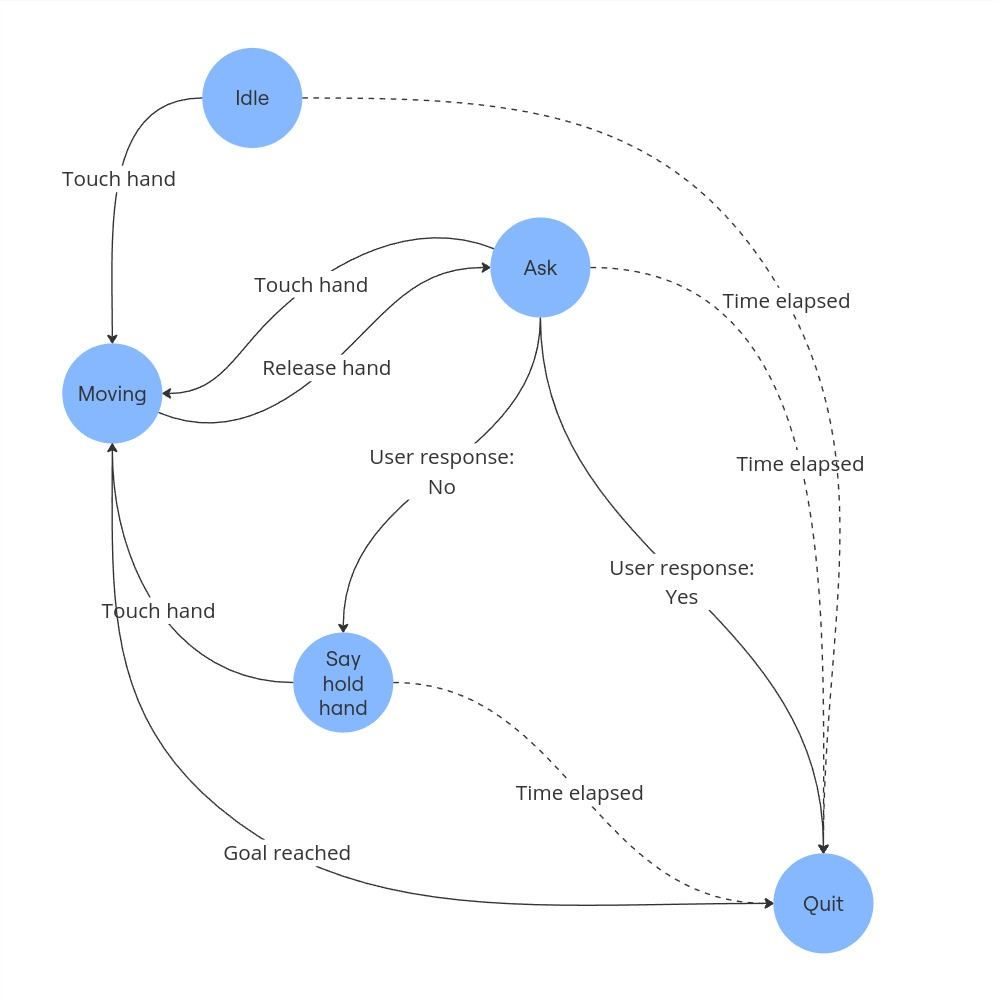
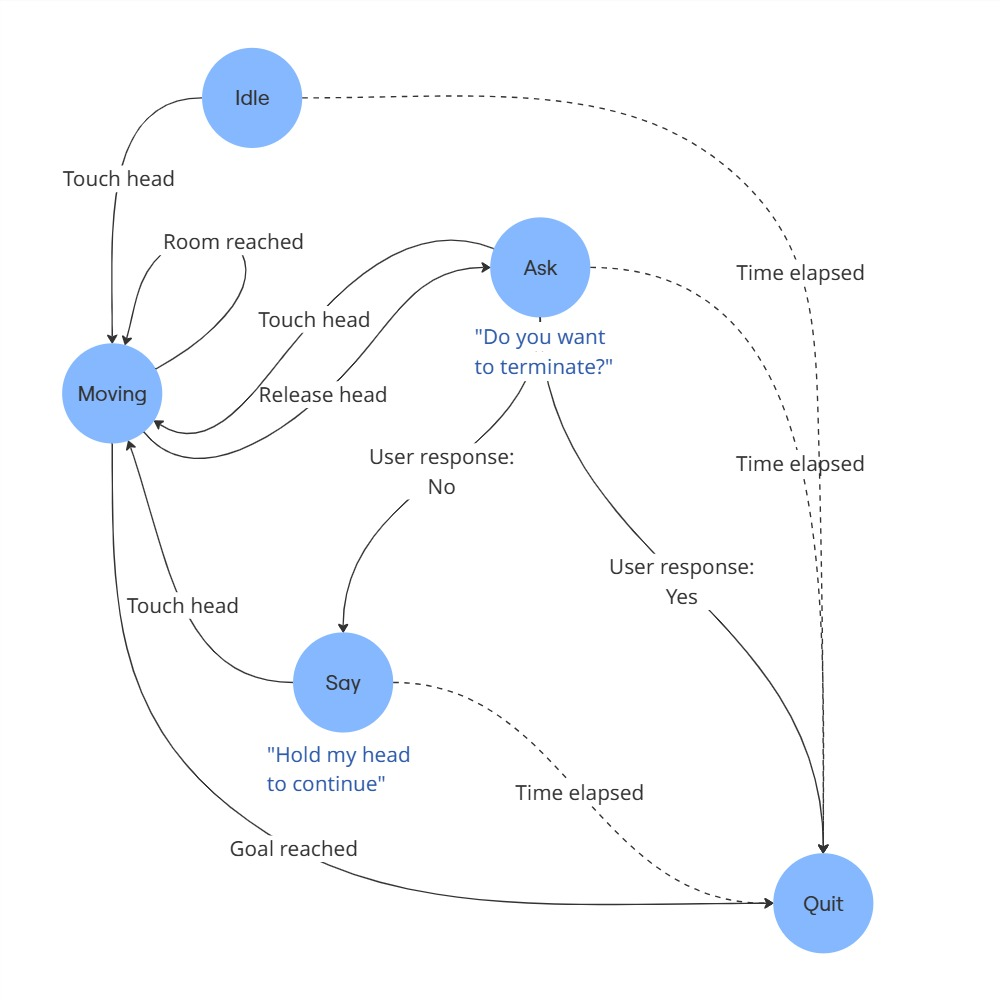
Updated README and images

diff --git a/README.md b/README.md
@@ -1,14 +1,16 @@
 # Pepper Walking Assistant
 
-This project enables Pepper to help users — both with and without disabilities — navigate through a building or facility. The system uses a set of pre-defined locations and a combination of voice and visual cues to guide the user efficiently. The entire codebase runs within a Docker container. 
+This project enables Pepper to help users — both with and without disabilities — navigate through a building or facility. The system uses a set of pre-defined locations and a combination of voice and visual cues to guide the user. The entire codebase runs within a Docker container. 
 
 Main features are:
-- Assist users with navigation using voice and visual cues.
-- Can be customized to support different buildings and environments by simply defining a graph-like structure.
-- Can be customized to use different languages by defining the set of sentences the robot will use during interaction.
-- The use of an automata to define the behavior of the robot lets us easily add new actions and perform new tasks during user interaction.
+- User profiling with non invasive questioning.
+- Assisting users navigating complex environments using voice and visual cues.
+- Customized support for different buildings and environments enabled by simply defining a graph-like structure.
+- Use of a finite state automata to define the behavior of the robot; this enables us to easily add new actions and perform new tasks during user interaction.
 
-The process is divided into two phases: during the first phase the user approaches the robot and asks for help to reach a place through the tablet or verbally; the robot automatically wakes up if someone stands in front of it; during the second phase, once we established the language, target destination, eventual disability and architectural barriers to avoid, we launch the motion script to compute the path to the destination and perform the actual motion that will lead the user safely to the goal.
+The process is divided into two phases: 
+- The user approaches the robot and asks for help to reach a place through the tablet or verbally. The robot automatically wakes up if someone stands in front of it; 
+- Once we established language, target destination and eventual disability, a motion script is launched to compute the optimal path to the destination, avoiding architectural barriers if needed, and perform the actual motion that will lead the user safely to the goal.
 
 ## Examples
 
@@ -22,22 +24,46 @@ We used a finite state automata to define the robot's behavior during this phase
 ![Finite state automata](media/automata.jpg)
 
 More on the states:
-- `Idle` state: the robot says to the user to hold its left/right hand (depending on the direction for the target room) and waits for user interaction; if the maximum wait time elapses without an interaction, the script terminates;
-- `Moving` state: once the user is holding the robot's hand, the robot moves towards the destination. If the user releases the hand, we move to the `Ask` state. If we actually reach the goal, we move into the `Quit` state;
-- `Ask` state: we reach this state if, during movement, the user leaves the hand of the robot. In this case the robot asks to the user if they really wants to cancel the procedure. The user can respond "No" or touch the hand again to resume or say "Yes" to confirm. If the maximum wait time elapses and the robot does not register a response, we move into the `Quit` state. If the user is deaf or has some kind of hearing impairment, all the interactions happen through the tablet;
-- `Say hold hand` state: if in the `Ask` state the user responds "No" to the question without touching the hand, the robot reminds him to touch the hand with a visual(on the tablet) or vocal message and we move into the `Moving` state again, resuming the motion;  
-- `Quit` state: release all the resources we allocated; 
+- **Idle**: The robot instructs the user to hold its head. It then waits for user interaction. If the maximum wait time elapses without interaction, the automaton goes into the **Quit** state and the procedure is aborted.  
+
+- **Moving**: Once the user holds the robot's head, it starts moving towards the destination.  
+  - If the user releases the head, the system transitions to the **Ask** state.  
+  - If the destination is reached, the system transitions to the **Quit** state.  
+  - When moving, the automaton uses the Motion Manager Module to get the current target (next node to be reached) and the Action Manager Module to actually implement the motion.  
+  - Once it reaches a node, if it is not the last of the path, it transitions again into the **Moving** state with a different target.  
+  - To account for momentary loss of contact, a timer is started upon entering this state, based on the expected movement duration. If interrupted, the timer is halted, preserving the remaining movement time for when the state is re-entered.  
+
+- **Ask**: This state is triggered if the user releases the robot’s head during movement.  
+  - The robot asks whether the user wants to cancel the navigation.  
+  - The user may respond **"No"** or re-establish contact to resume, or respond **"Yes"** to confirm cancellation.  
+  - If the maximum wait time elapses without a response, the system transitions to the **Quit** state.  
+  - For users with hearing impairments, instructions are also provided through the tablet.  
+
+- **Say Hold Head**: If, in the **Ask** state, the user responds **"No"** but does not re-establish contact, the robot reminds them to hold its head via a visual message (on the tablet) or a verbal prompt.  
+  - The system then transitions back to the **Moving** state, resuming motion.  
+  - If no response is given after the robot repeats the instructions, the system transitions to the **Quit** state.  
+
+- **Quit**: The system releases all allocated resources and terminates the guiding process.
+
 
 ## Map
 
-The map we included for demonstration purposes is the following:
-
 ![Map](media/map.jpg)
 
-Each edge shows two weights: distance and accessibility level. At runtime we filter out the edges with accessibility level above the selected one to leave only the paths the user can safely go through and we find the shortest path to the goal with the A* algorithm.
-We provided only two accessibility levels for now: 0 for motor disabilities or blindness, conditions that prevent the user from using stairs, and 1 for the other cases where architectural barriers are not a problem (e.g. deafness).
+- The map is processed as a graph, where each node represents a room or location of interest, and each edge represents a traversable path. Each edge includes information about the cost (time required) and accessibility level. The accessibility level classifies edges based on their suitability for users with mobility or visual impairments. Specifically:  
+  - **Level 0**: The edge is free of architectural barriers and can be traversed by all users.  
+  - **Level 1**: The edge presents obstacles that hinder navigation for individuals with mobility or vision impairments. Such edges should be excluded from the motion planning process when guiding users who require accessible paths.  
 
-Out of simplicity, we suppose all the rooms are arranged on a straight line in order to take out eventual rotations. 
+- During the path planning stage, once the user is identified and their preferred interaction modality is determined, the system infers the appropriate accessibility level for route computation:  
+  - **Visually impaired users**: The system prioritizes auditory guidance and ensures that navigation paths exclude edges classified as Level 0, selecting only those at Level 1 to guarantee ease of traversal.  
+  - **Auditory impaired users**: The system includes both Level 0 and Level 1 edges in the path computation, as architectural barriers do not pose a significant challenge.  
+
+- An example of the graph is illustrated in the following image. Suppose the starting point is the Lobby, and the destination is the Office:  
+  - If no mobility limitations are present, the shortest path allows direct traversal of the corresponding edge, leading straight to the destination.  
+  - For users with mobility impairments, the algorithm instead directs them through the Cafe before reaching the Office (**Figure \ref{fig:map_example_traversal.jpg}**).  
+  - This scenario directly reflects the physical constraints that informed the graph structure. For instance, if the Office is located on the second floor and connected to the Lobby by a staircase, users with mobility impairments cannot traverse it. As a result, the algorithm guides them through the Cafe, where an elevator may be available to facilitate access to the upper level.  
+
+![Map Traversal Example](media/map_example_traversal.jpg)
 
 ## Installation and usage
 
